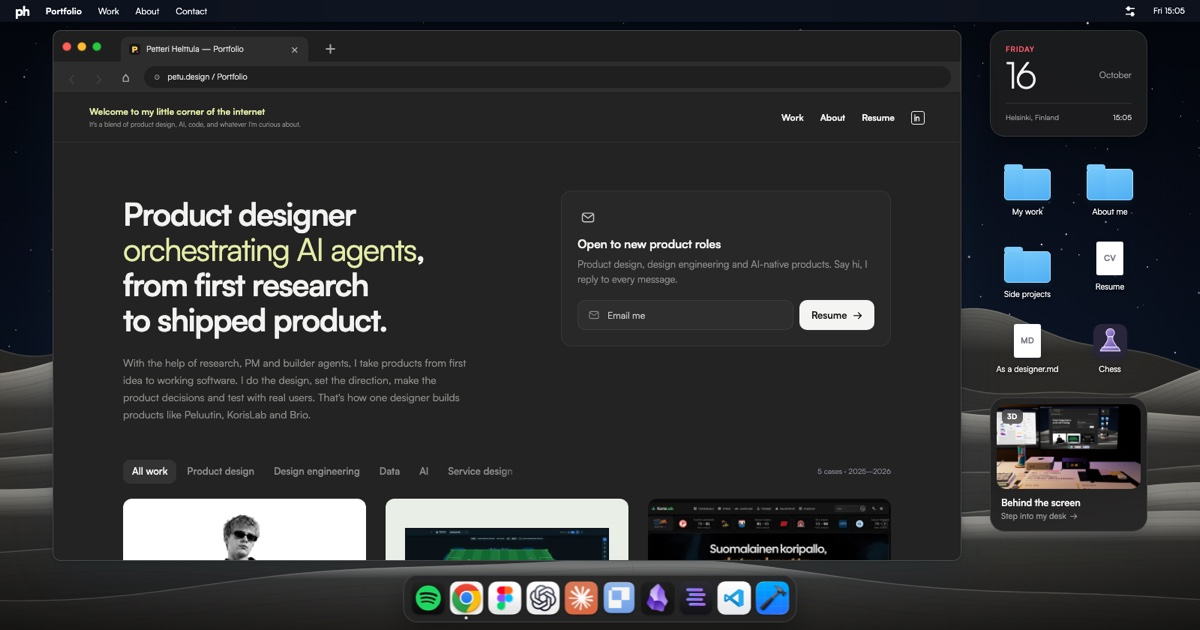
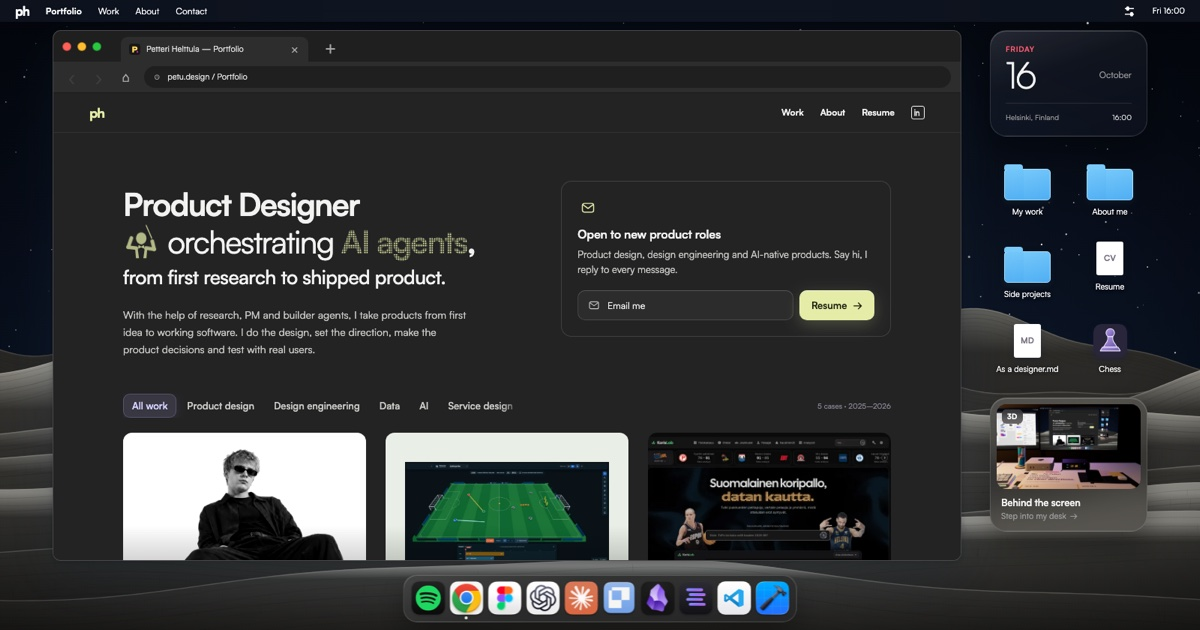
Refresh room monitor, desk widget and link preview images
Recaptured from the current homepage so the room's main screen, the
"Behind the screen" preview and the social preview match the live design.

diff --git a/index.html b/index.html
@@ -18,7 +18,7 @@
 </nav>
 <div class="browser-page" id="browser-page" tabindex="0"></div>
 </article>
-<aside class="desktop-side" aria-label="Desktop widgets"><section class="date-widget"><span id="widget-weekday"></span><strong id="widget-day"></strong><span id="widget-month"></span><div>Helsinki, Finland<time id="widget-clock"></time></div></section><nav class="desktop-shortcuts" id="desktop-shortcuts" aria-label="Desktop files"></nav><button class="room-button workspace-enter room-widget" type="button" aria-controls="workspace-view" aria-expanded="false" aria-label="See what's behind the screen: open my desk in 3D"><span class="room-widget-preview" aria-hidden="true"><img src="assets/room-widget-preview.jpg?v=3" alt="" width="560" height="330" decoding="async"><span class="room-widget-chip">3D</span></span><span class="room-widget-copy" aria-hidden="true"><strong>Behind the screen</strong><small>Step into my desk <span class="room-widget-arrow">→</span></small></span></button></aside>
+<aside class="desktop-side" aria-label="Desktop widgets"><section class="date-widget"><span id="widget-weekday"></span><strong id="widget-day"></strong><span id="widget-month"></span><div>Helsinki, Finland<time id="widget-clock"></time></div></section><nav class="desktop-shortcuts" id="desktop-shortcuts" aria-label="Desktop files"></nav><button class="room-button workspace-enter room-widget" type="button" aria-controls="workspace-view" aria-expanded="false" aria-label="See what's behind the screen: open my desk in 3D"><span class="room-widget-preview" aria-hidden="true"><img src="assets/room-widget-preview.jpg?v=4" alt="" width="560" height="330" decoding="async"><span class="room-widget-chip">3D</span></span><span class="room-widget-copy" aria-hidden="true"><strong>Behind the screen</strong><small>Step into my desk <span class="room-widget-arrow">→</span></small></span></button></aside>
 </div>
 <section class="sound-mixer" hidden id="sound-mixer" aria-labelledby="mixer-title">
               <header><h2 id="mixer-title">Sound mixer</h2><button type="button" id="sound-enable" aria-pressed="false">Enable sound</button></header>
@@ -600,4 +600,4 @@
   <img data-preview-image alt="">
   <p data-preview-caption hidden></p>
 </dialog>
-<script src="case-video.js?v=2"></script><script src="case-comparison.js?v=1"></script><script src="desktop.js?v=23"></script><script src="workspace-view.js?v=108"></script></body></html>
+<script src="case-video.js?v=2"></script><script src="case-comparison.js?v=1"></script><script src="desktop.js?v=23"></script><script src="workspace-view.js?v=109"></script></body></html>

diff --git a/workspace-view.js b/workspace-view.js
@@ -1244,7 +1244,7 @@ const createDesktopScreenTexture = (THREE) => {
     texture.needsUpdate = true;
   };
   desktopImage.onload = draw;
-  desktopImage.src = 'assets/room-desktop-screen.png?v=14';
+  desktopImage.src = 'assets/room-desktop-screen.png?v=15';
   window.setInterval(draw, 30_000);
   const dockTargets = [
     { x: 701.5 / 1906, y: 831 / 896, width: 44 / 1906, height: 44 / 896 },
